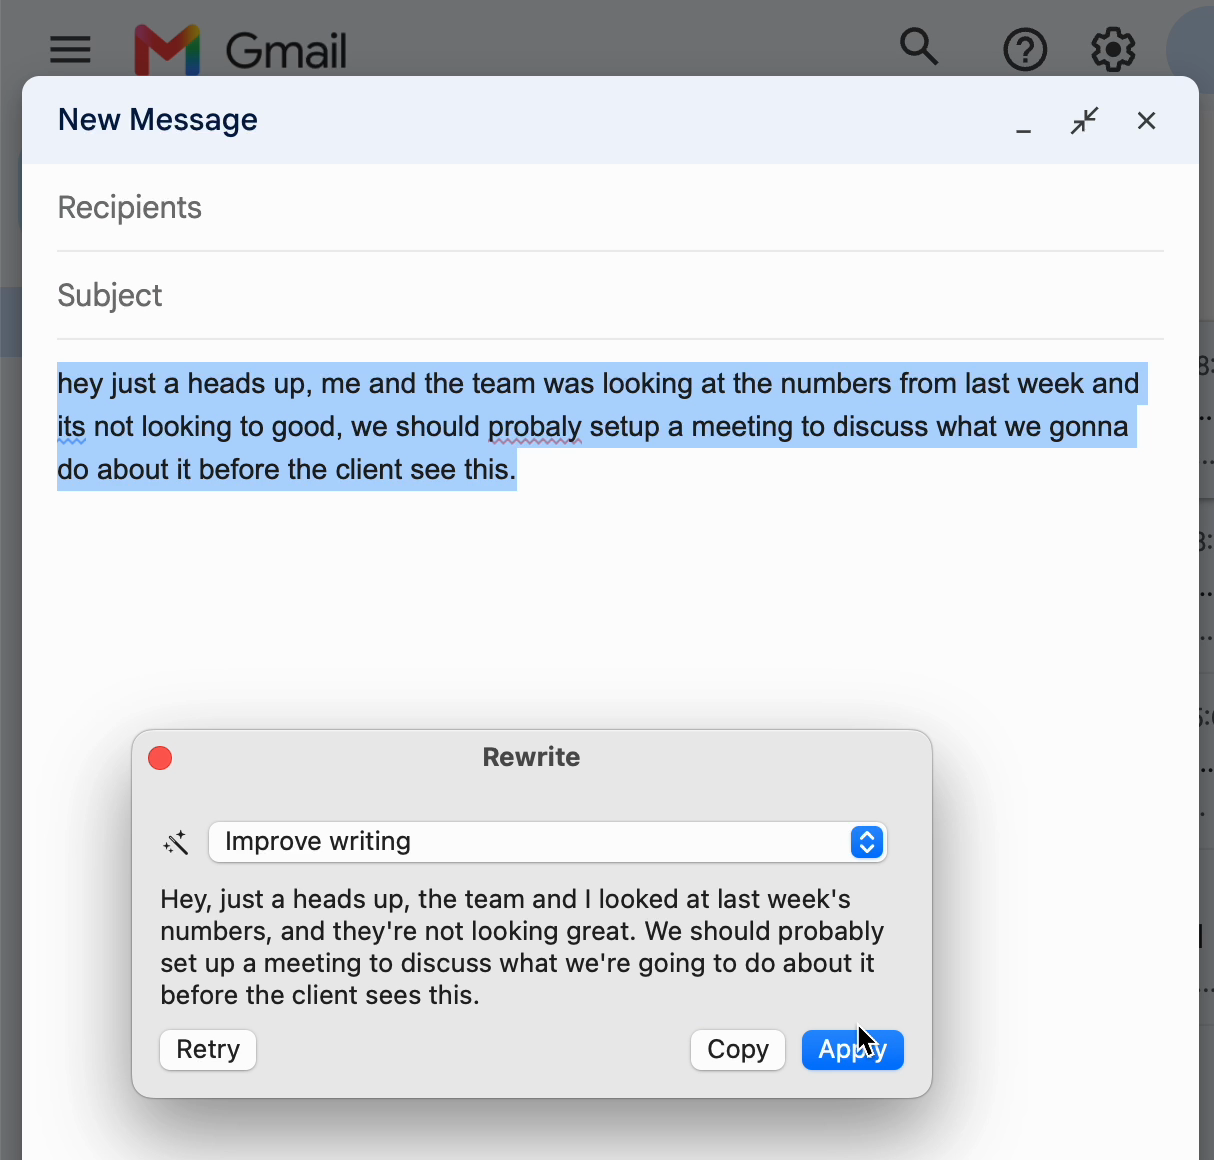
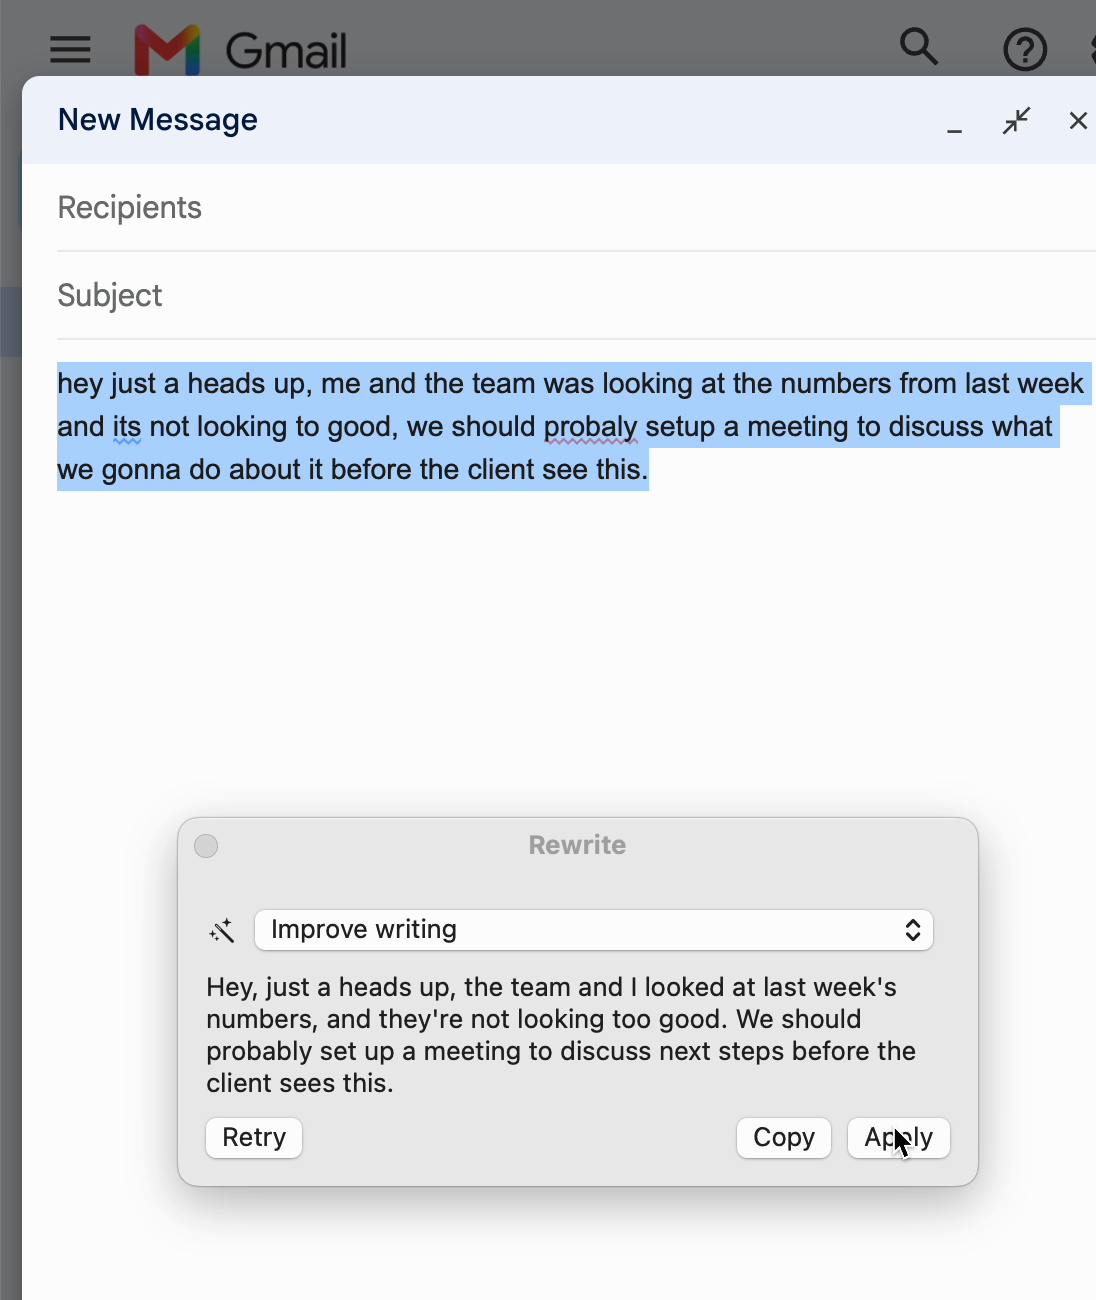
docs: new demo GIF and matching still (full select-to-apply flow, clean crop)

diff --git a/README.md b/README.md
@@ -10,7 +10,7 @@
   ![Swift 5.9](https://img.shields.io/badge/Swift-5.9-orange)
   [![License: MIT](https://img.shields.io/badge/License-MIT-green.svg)](LICENSE)
 
-  <img src="docs/assets/demo.gif" width="520" alt="Reword demo: select rough text in Gmail, press the hotkey, review the rewrite, and apply it in place">
+  <img src="docs/assets/demo.gif" width="480" alt="Reword demo: select rough text in Gmail, press the hotkey, review the rewrite, and apply it in place">
 </div>
 
 Select text in any app — Slack, Gmail, your editor, a terminal — press **⇧⌘R**, review the AI-rewritten version in a floating panel, and apply it in place. Prompts are fully yours to edit.
@@ -24,7 +24,7 @@ Select text in any app — Slack, Gmail, your editor, a terminal — press **⇧
 - **Native and lightweight** — Swift + SwiftUI menu bar app. No Electron, no Dock icon, no background daemon.
 
 <div align="center">
-  <img src="docs/assets/rewrite-in-gmail.png" width="480" alt="Rough draft selected in Gmail with the Rewrite panel showing the polished version">
+  <img src="docs/assets/rewrite-in-gmail.png" width="420" alt="Rough draft selected in Gmail with the Rewrite panel showing the polished version">
   <br><em>The rough draft, and the rewrite — nothing changes until you click Apply.</em>
   <br><br>
   <img src="docs/assets/settings.png" width="520" alt="Settings window: editable prompt presets with a starred default">